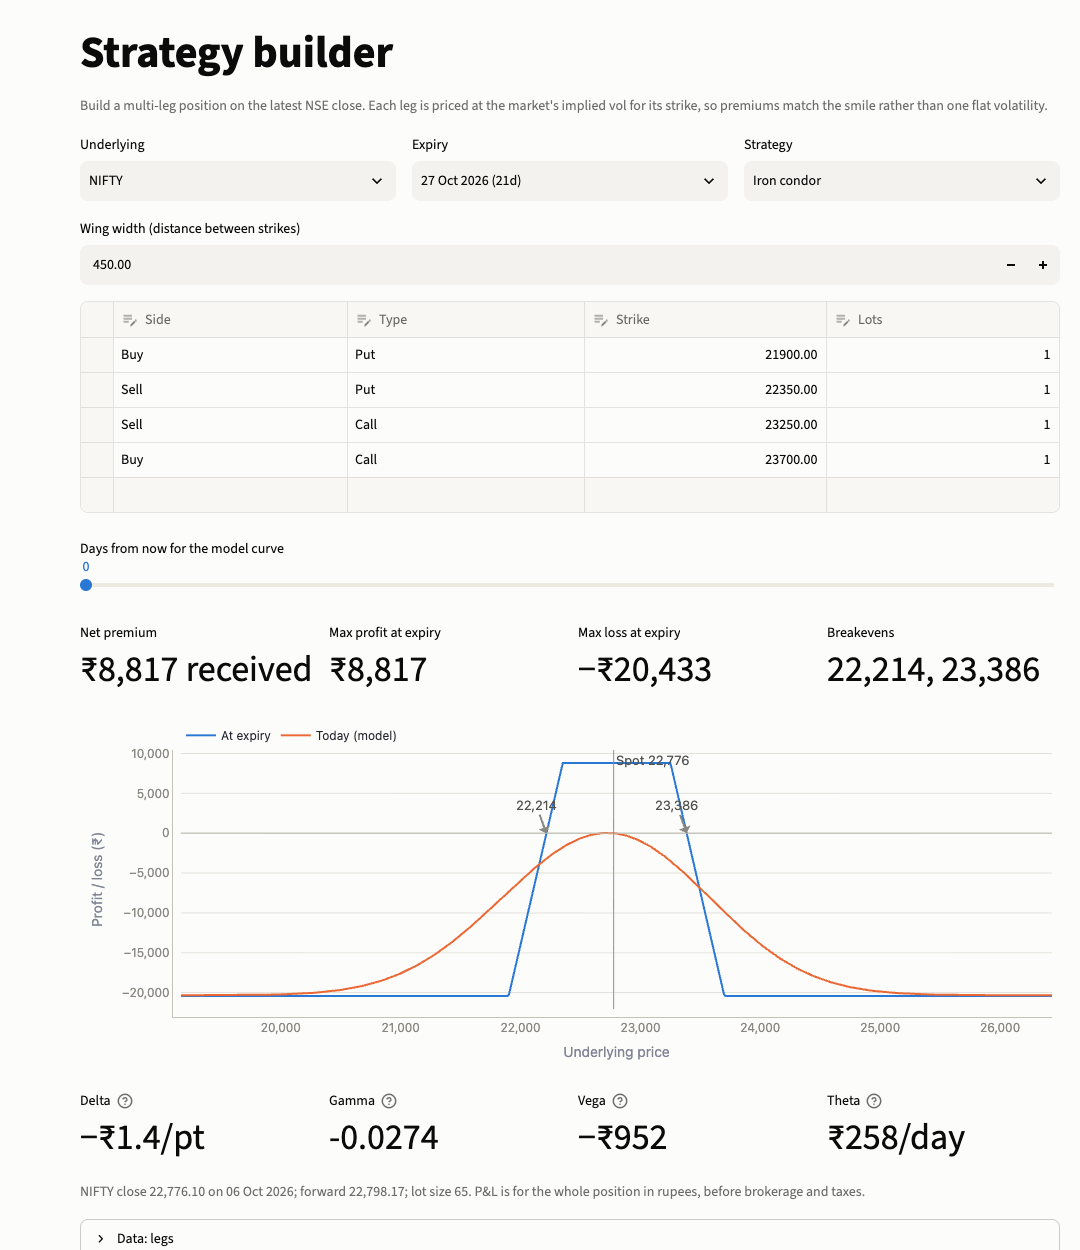
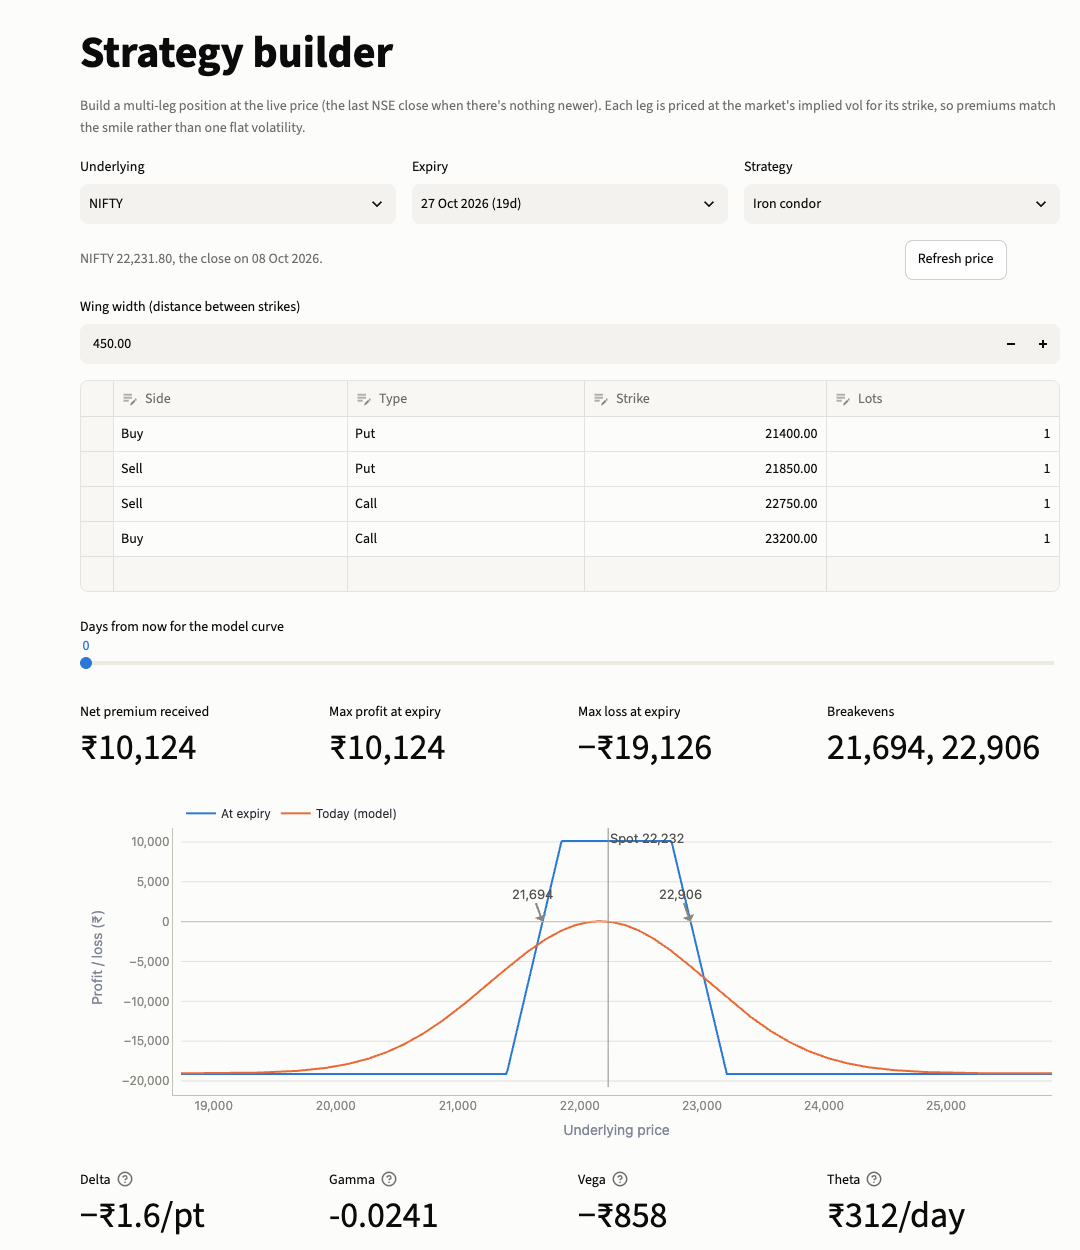
README: live index level in the data caveats, the Mac trigger, a current Strategy builder screenshot

diff --git a/README.md b/README.md
@@ -141,7 +141,9 @@ NSE bhavcopy (daily zip) ──► optlab/market/nse.py      parse options + fut
 - **`.github/workflows/ingest.yml`** runs ingest and calibration every weekday evening and commits to the
   `market-data` branch. The app reads its end-of-day data from that branch. It's scheduled at 20:17 IST
   and again at 22:17, 00:17, 02:17 and 08:17, because GitHub's scheduled runs can start hours late or
-  not at all; a run that finds the day already done saves nothing.
+  not at all; a run that finds the day already done saves nothing. In practice they've started 3 to 7
+  hours late, so a launchd job on my Mac also starts the workflow (`gh workflow run ingest.yml`) at
+  20:17 and 22:17 IST on weekdays; GitHub's schedule covers the evenings the Mac is off.
 - **`optlab/market/live.py`** is the one live call: NIFTY's and BANKNIFTY's level from NSE's website
   API, else Yahoo Finance. RELIANCE stays at its last close: NSE refuses scripts its stock quotes, and
   Yahoo turned the app's server away from its first request. The app asks
@@ -215,9 +217,11 @@ git worktree add data market-data
 
 ## Data caveats
 
-- **End-of-day only.** The bhavcopy has closing prices, not bid/ask, so the surface updates daily.
-  Closes are NSE's volume-weighted average of the last half hour, which keeps options and the
-  underlying roughly in step.
+- **End-of-day smiles, live index level.** The bhavcopy has closing prices, not bid/ask, so the
+  surface, the smiles and the model fits update once a day. Closes are NSE's volume-weighted average
+  of the last half hour, which keeps options and the underlying roughly in step. During market hours
+  the Option pricer and Strategy builder move NIFTY and BANKNIFTY to the live index level, but still
+  read volatility off the last close's smile.
 - **Liquidity filter.** Quotes need 20+ trades and a price of at least ₹0.50, so far wings and
   long-dated expiries are thin. NIFTY lists options out to 2031 but only the first year or so trades.
 - **Rate.** A single 5.5% rate (the 91-day T-bill in September 2026) is used throughout. Forwards come
